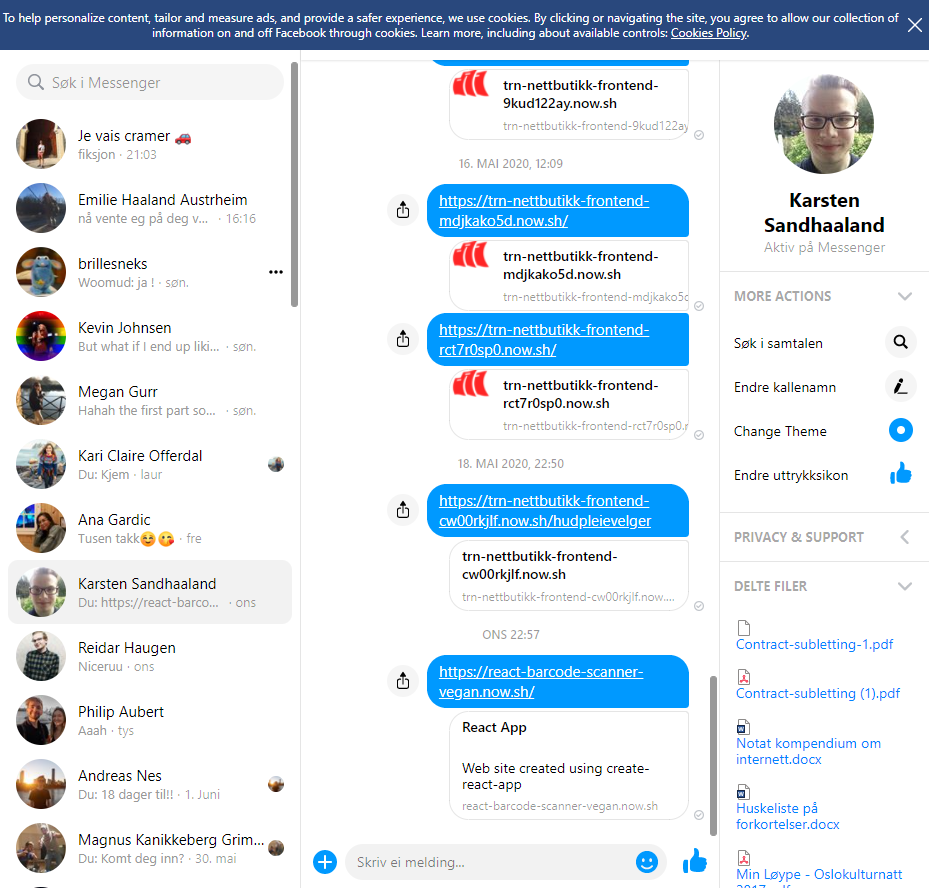
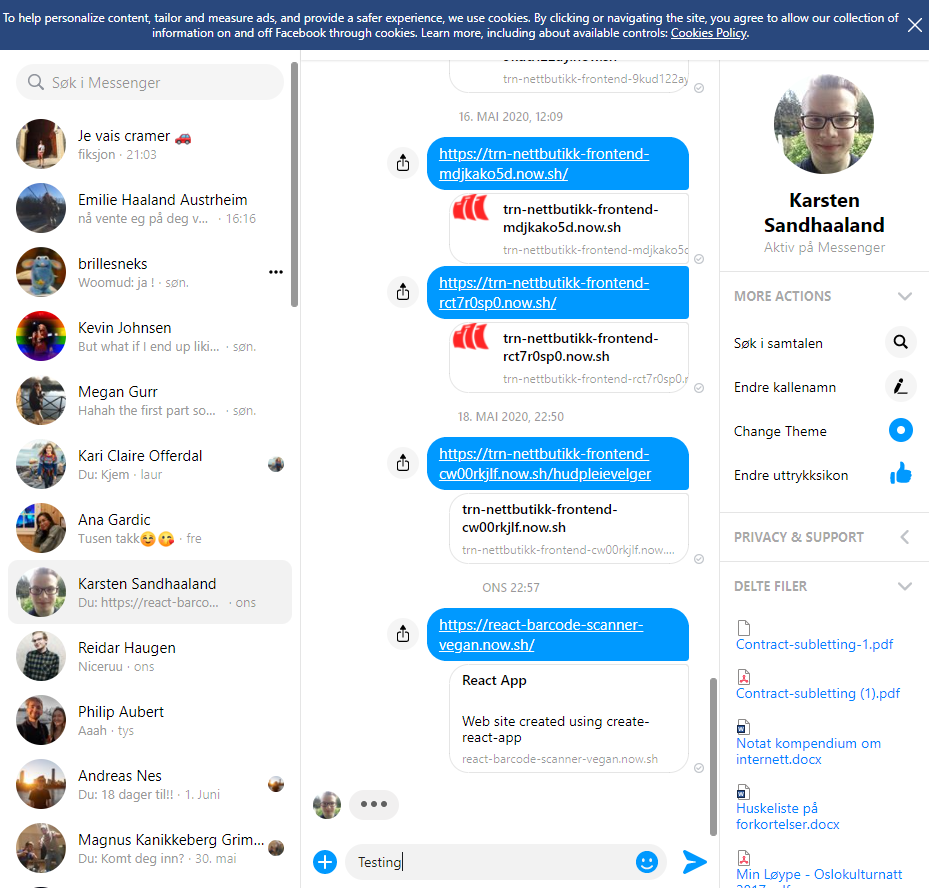
typeing with delay

diff --git a/index.js b/index.js
@@ -55,6 +55,10 @@ const CRED = require('./secret.js');
 
     await sleep(5000);
 
+    //await page.type(null, 'World', { delay: 100 }); // Types slower, like a user
+    //await page.keyboard.type('Puppeteer');
+    await page.keyboard.type("Testing", { delay: 50 })
+    await sleep(3000);
     await page.screenshot({ path: 'example.png' });
 
 
